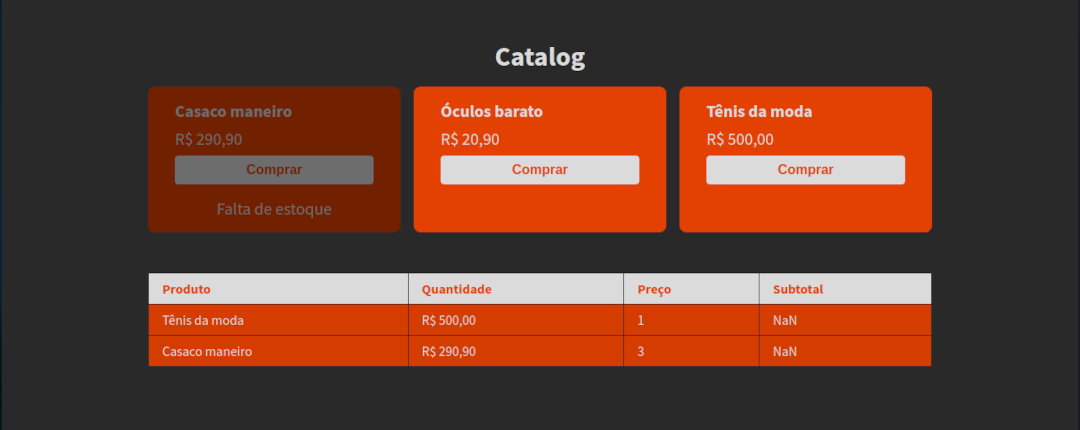
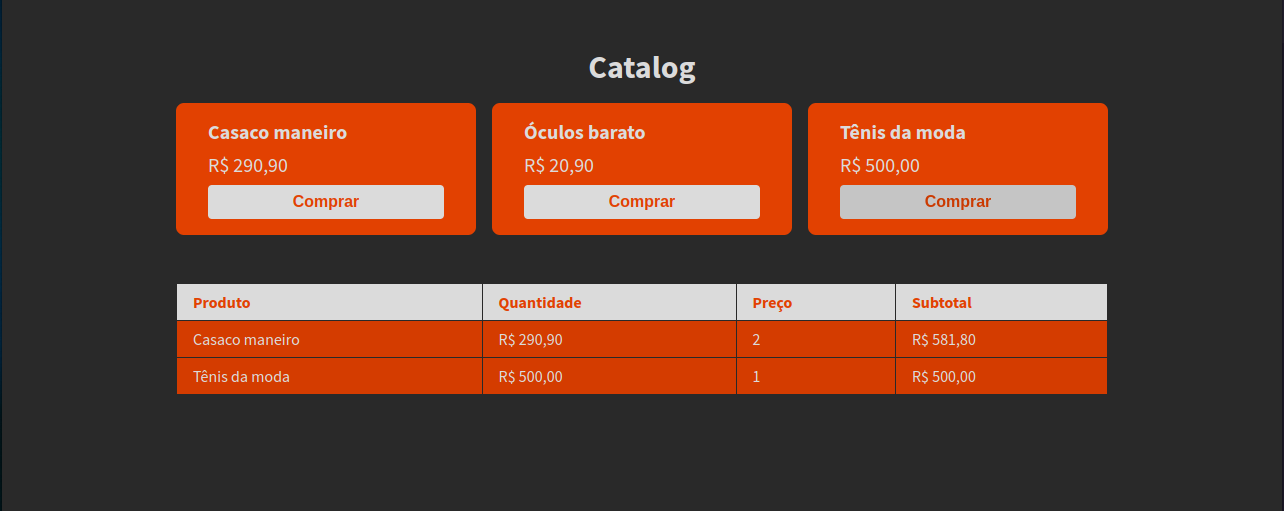
images added

diff --git a/reduxtoolkit-app/src/components/Cart.tsx b/reduxtoolkit-app/src/components/Cart.tsx
@@ -1,4 +1,4 @@
-import React from 'react'
+import React, { useEffect } from 'react'
 import { useSelector } from 'react-redux'
 import { IState } from '../store'
 import { ICartItem } from '../store/modules/cart/types'
@@ -23,9 +23,9 @@ export const Cart: React.FC = () => {
                     cart.map(item => (
                         <tr key={item.product.id}>
                             <td>{item.product.title}</td>
-                            <td>{item.product.price}</td>
+                            <td>{item.product.price.toLocaleString('pt-BR', {style:'currency', currency:'BRL'})}</td>
                             <td>{item.quantity}</td>
-                            <td>{(item.quantity * item.product.price).toFixed(2)}</td>
+                            <td>{(item.quantity * item.product.price).toLocaleString('pt-BR', {style:'currency', currency:'BRL'})}</td>
                         </tr>
                     ))
                 }

diff --git a/redux-app/src/components/Cart.tsx b/redux-app/src/components/Cart.tsx
@@ -5,7 +5,6 @@ import { ICartItem } from '../store/modules/cart/types'
 
 export const Cart: React.FC = () => {
     const cart = useSelector<IState, ICartItem[]>(state => state.cart.items)
-
     return (
         <table>
             <thead>
@@ -18,14 +17,15 @@ export const Cart: React.FC = () => {
             </thead>
             <tbody>
                 {
-                    cart.map( item => (
+                    cart.map( item => {
+                        return (
                         <tr key={item.product.id}>
                             <td>{item.product.title}</td>
                             <td>{item.product.price}</td>
                             <td>{item.quantity}</td>
                             <td>{(item.quantity * item.product.price).toFixed(2)}</td>
                         </tr>
-                    ))
+                    )})
                 }
             </tbody>
         </table>

diff --git a/reduxtoolkit-app/src/components/Catalog.tsx b/reduxtoolkit-app/src/components/Catalog.tsx
@@ -11,18 +11,7 @@ export function Catalog(){
     
     useEffect(() => {
         api.get('products')
-        .then( response => response.data)
-        .then( data => {
-            const formatedData = data.map((catalogItem: IProduct) => {
-                return {
-                    id: catalogItem.id,
-                    title: catalogItem.title,
-                    price: catalogItem.price.toLocaleString('pt-BR', {style:'currency', currency:'BRL'})
-                }
-            })
-
-            setCatalog(formatedData)
-        })
+        .then( response => setCatalog(response.data))
     },[])
 
 

diff --git a/reduxtoolkit-app/src/components/CatalogItem.tsx b/reduxtoolkit-app/src/components/CatalogItem.tsx
@@ -26,7 +26,7 @@ export const CatalogItem: React.FC<CatalogItemProps> = ({product}) => {
     return (
         <article className={`item-container ${doesNotHasStock && 'disable-container'}`} key={product.id}>
             <strong>{product.title}</strong>
-            <span>{product.price}</span>
+            <span>{product.price.toLocaleString('pt-BR', {style:'currency', currency:'BRL'})}</span>
 
             <button 
                 type='button'
